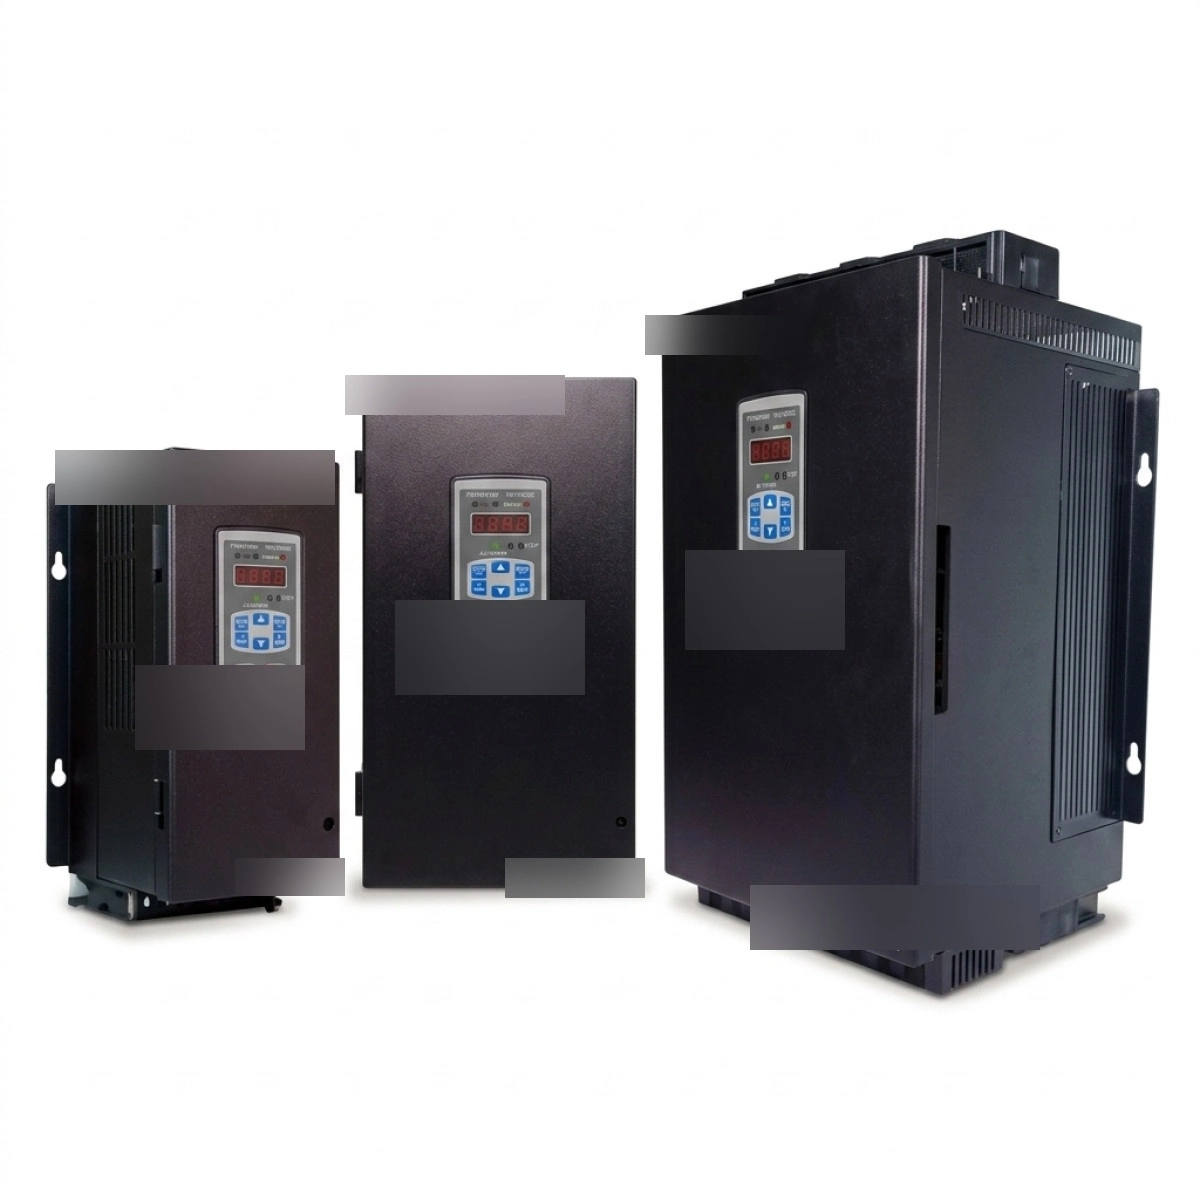
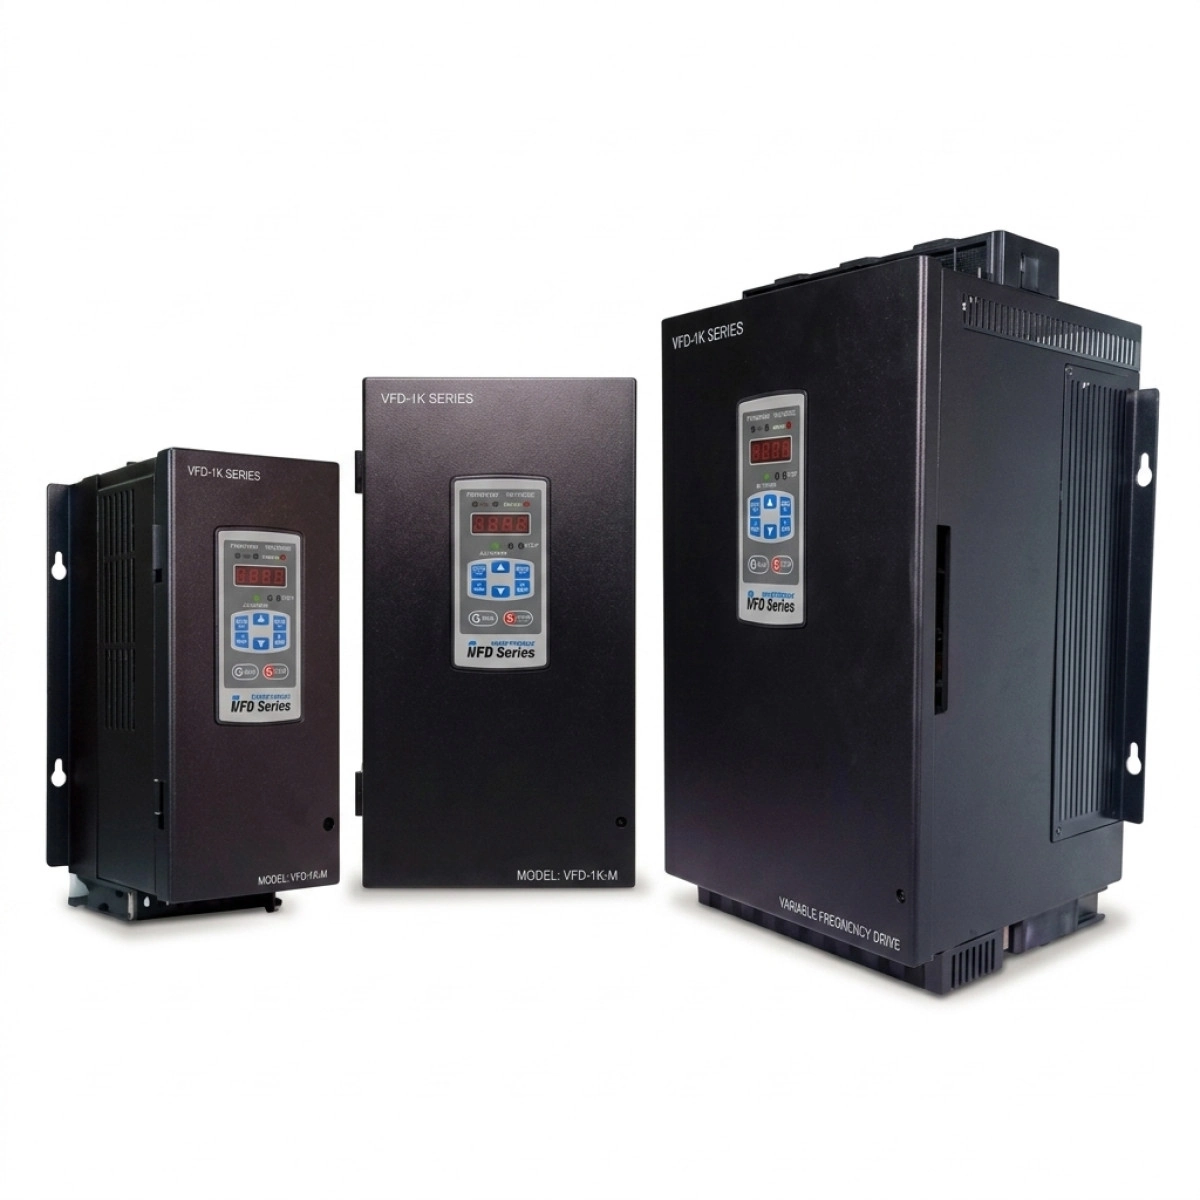
Revize

diff --git a/AOM_Web_v2_02-10-2026/src/app/magaza/page.tsx b/AOM_Web_v2_02-10-2026/src/app/magaza/page.tsx
@@ -79,11 +79,9 @@ const SLIDER_FEATURE: { id: string; short: string; eyebrow: string; title: strin
     // ("VARIABLE FREQUENCY DRIVE", VFD-1K serisi) — bu kategorideki ürünler (tristörlü güç kontrol,
     // SSR, motor starter) değil, sürücü/invertör. Kategori uyuşmazlığı Mert'e sohbette bildirildi;
     // Mert "yine de bu slaytta kullan" diye onayladı, bu yüzden genel/temsili bir güç elektroniği
-    // görseli olarak kullanıldı. Ayrıca Mert'in genel talimatı ("gönderdiğim görüntüleri işle,
-    // bize özel hale getirerek slider'a yerleştir" → netleştirme sonucu: "görünür marka
-    // logolarını/yazılarını kaldır") üzerine görseldeki üretici marka yazıları/logoları
-    // (üç ünitenin üst etiketleri ve ön panel markaları) bulanıklaştırılarak kaldırıldı; AOM logosu
-    // eklenmedi.
+    // görseli olarak kullanıldı. Güncelleme: görseldeki marka yazıları bulanıklaştırılarak
+    // denenmişti, ama Mert bu işin görünümünü beğenmedi ("berbat görünüyor") ve eski (bulanıklaştırma
+    // öncesi, marka yazıları görünür) haline döndürülmesini istedi — görsel orijinaline geri alındı.
     image: { src: "/magaza-slider/guc-kontrol-slider_17-10-2026.webp", alt: "Güç elektroniği üniteleri" },
   },
   {
@@ -102,9 +100,10 @@ const SLIDER_FEATURE: { id: string; short: string; eyebrow: string; title: strin
     // değiştir"). Bu kategoride (sıcaklık kontrol, sayıcı, zamanlayıcı, panel metre, kayıt cihazı,
     // gösterge, ekran birimi, sensör kontrol cihazı) sadece Autonics ürünleri var; kataloğumuzda hiç
     // Mitsubishi HMI yok — hem marka hem ürün tipi (küçük kontrol cihazı yerine büyük dokunmatik
-    // panel) uyuşmuyor. Mert bu HMI görselini onayladı. Aynı de-branding talimatı gereği görünür
-    // "Mitsubishi Electric" ve "GOT3000" marka yazıları/logoları panellerin hepsinde
-    // bulanıklaştırılarak kaldırıldı; AOM logosu eklenmedi.
+    // panel) uyuşmuyor. Mert bu HMI görselini onayladı. "Mitsubishi Electric" ve "GOT3000" marka
+    // yazıları bulanıklaştırılarak kaldırılmıştı, ama Mert bu işin görünümünü beğenmedi ("berbat
+    // görünüyor") ve eski (bulanıklaştırma öncesi, marka yazıları görünür) haline döndürülmesini
+    // istedi — görsel orijinaline geri alındı.
     image: { src: "/magaza-slider/kontrol-cihazlari-slider_17-10-2026.webp", alt: "HMI dokunmatik operatör panelleri" },
   },
   {
@@ -212,10 +211,10 @@ export default function MagazaPage() {
       // envanteri birebir yansıtmıyor (Fanuc görselindeki duruma benzer), ama Mert'in genel "gönderdiğim
       // tüm görselleri işleyip slider'a yerleştir" talimatı ve kategori uyuşmazlıklarının onaylandığı
       // önceki örnekler (güç kontrol, kontrol cihazları) doğrultusunda kullanıldı; bu uyuşmazlık burada
-      // da açıkça not düşülüyor. De-branding talimatı gereği görseldeki 25'ten fazla "ELCO" marka
-      // logosu/yazısı (ürün etiketleri, kablo baskıları, panel rozetleri) tek tek bulanıklaştırılarak
-      // kaldırıldı; model/sipariş kodu metinleri (marka içermeyen) ve EtherCAT/CE gibi endüstri
-      // standardı işaretleri olduğu gibi bırakıldı. AOM logosu eklenmedi.
+      // da açıkça not düşülüyor. Görseldeki "ELCO" marka logoları/yazıları önce tek tek
+      // bulanıklaştırılarak kaldırılmıştı, ama Mert bu işin görünümünü beğenmedi ("berbat görünüyor")
+      // ve eski (bulanıklaştırma öncesi, marka yazıları görünür) haline döndürülmesini istedi — görsel
+      // orijinaline geri alındı.
       image: { src: "/magaza-slider/ikinci-el-slider_17-10-2026.webp", alt: "Endüstriyel otomasyon ürün çeşitliliği" },
     });
   }

diff --git a/AOM_Web_v2_02-10-2026/00_INDEKS_02-10-2026.md b/AOM_Web_v2_02-10-2026/00_INDEKS_02-10-2026.md
@@ -238,3 +238,4 @@ Tuvalde ("AOM Web Sitesi Ana Sayfa 02-10-2026") yapılan her değişiklik bu kla
   - Enkoderler: Mert'in gönderdiği çeşitli enkoder gövdeleri görseli kullanıldı. İncelemede okunabilir marka logosu/yazısı bulunmadı (yalnız genel uyarı etiketi), bu yüzden bulanıklaştırma gerekmedi.
   - 2. El ürünler: Mert'in gönderdiği ELCO Industrial Automation marka ürün kolajı kullanıldı. Gerçek ikinci el stoğumuzda (809 üründe) ELCO markalı ürün sayısı yalnızca 1 — görsel gerçek envanteri birebir yansıtmıyor (16/17 numaralı kayıtlardaki Fanuc/VFD durumlarına benzer bir uyuşmazlık); bu da açıkça not edildi, ama Mert'in genel "tüm görselleri işle ve yerleştir" talimatı ve önceki benzer uyuşmazlıkların onaylanmış olması nedeniyle kullanıldı. Görseldeki 25'ten fazla "ELCO" marka logosu/yazısı (ürün etiketleri, kablo baskıları, panel rozetleri, konnektör üstü yazılar) tek tek tespit edilip çift geçişli Gauss bulanıklaştırmayla kaldırıldı; model/sipariş kodu metinleri ve EtherCAT/CE gibi endüstri standardı işaretleri (marka değil) olduğu gibi bırakıldı.
   - Tüm görseller webp'ye çevrildi (kalite 98, method=6, azami genişlik 1600 px — hiçbiri sınırı aşmıyordu). `src/app/magaza/page.tsx`'teki ilgili üç slayt yorumuna de-branding işlemi ve (2. el için) marka temsiliyeti uyuşmazlığı not edildi. Dosyalar: `public/magaza-slider/kontrol-cihazlari-slider_17-10-2026.webp` (değiştirildi), `public/magaza-slider/guc-kontrol-slider_17-10-2026.webp` (değiştirildi — de-branding uygulandı), `public/magaza-slider/enkoderler-slider_17-10-2026.webp` (değiştirildi), `public/magaza-slider/ikinci-el-slider_17-10-2026.webp` (yeni), `src/app/magaza/page.tsx`
+- 17-10-2026 (20): Mert, (19) numaralı kayıttaki bulanıklaştırma (de-branding) işinin görünümünü beğenmedi: "Hiç olmamış markaları kapatma işi berbat görünüyor. Eski haline getir." Üç görsel de (Güç kontrol/VFD, Kontrol cihazları/HMI, 2. El ürünler/ELCO) bulanıklaştırma öncesi orijinal haline geri alındı — marka yazıları/logoları artık tekrar görünür durumda. Görsellerin kendisi (hangi fotoğrafın hangi slaytta kullanılacağı) DEĞİŞMEDİ, yalnızca üzerlerindeki gri bulanıklaştırma kutuları kaldırıldı; orijinal kaynak dosyalar (Mert'in sohbette gönderdiği fotoğraflar) yeniden webp'ye çevrilerek (kalite 98, method=6) kullanıldı. Enkoderler görseline zaten bulanıklaştırma uygulanmamıştı, değişmedi. `src/app/magaza/page.tsx`'teki üç slayt yorumu bu geri alma kararını ve gerekçesini yansıtacak şekilde güncellendi. Dosyalar: `public/magaza-slider/guc-kontrol-slider_17-10-2026.webp` (geri alındı), `public/magaza-slider/kontrol-cihazlari-slider_17-10-2026.webp` (geri alındı), `public/magaza-slider/ikinci-el-slider_17-10-2026.webp` (geri alındı), `src/app/magaza/page.tsx`
